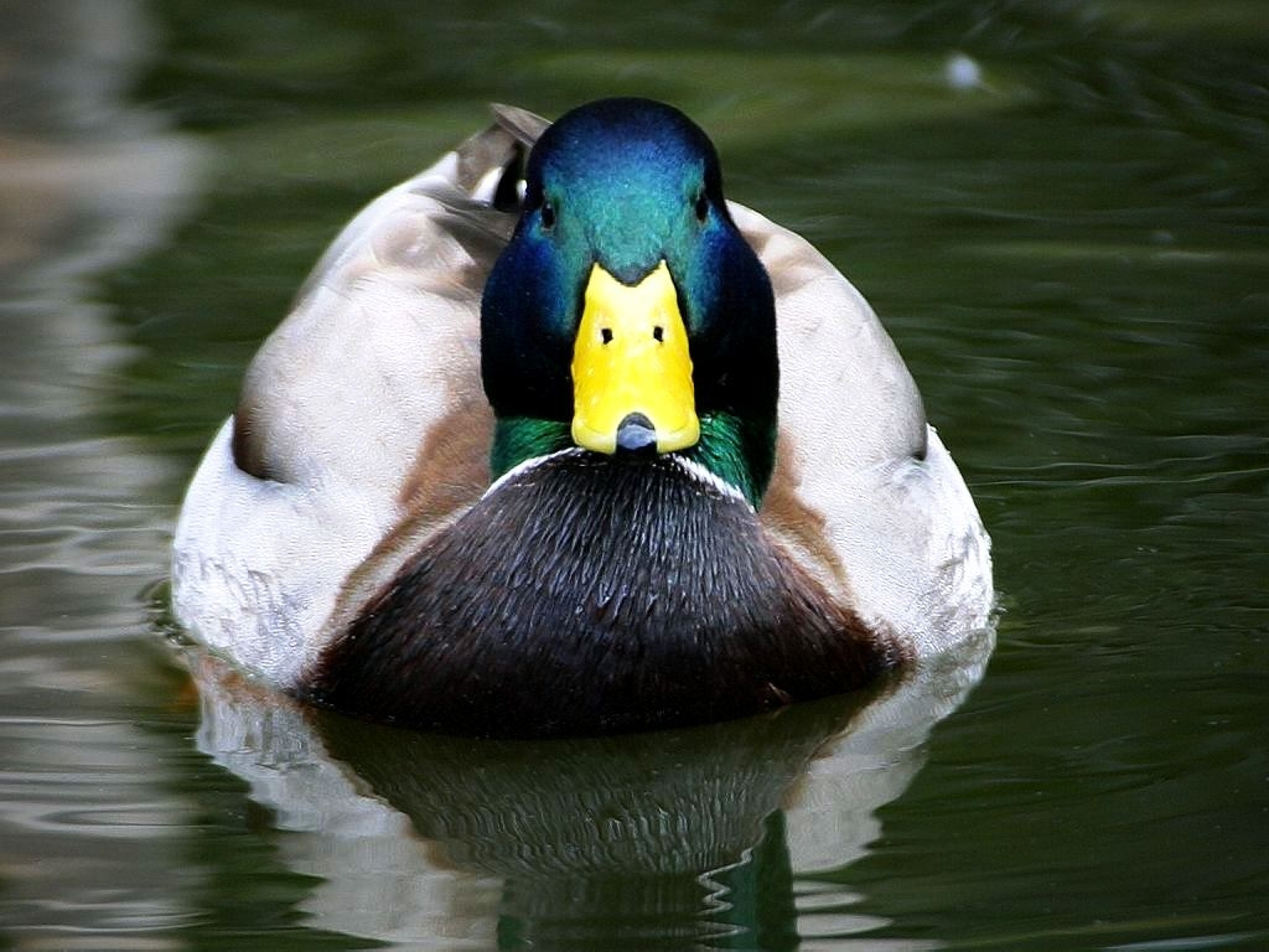
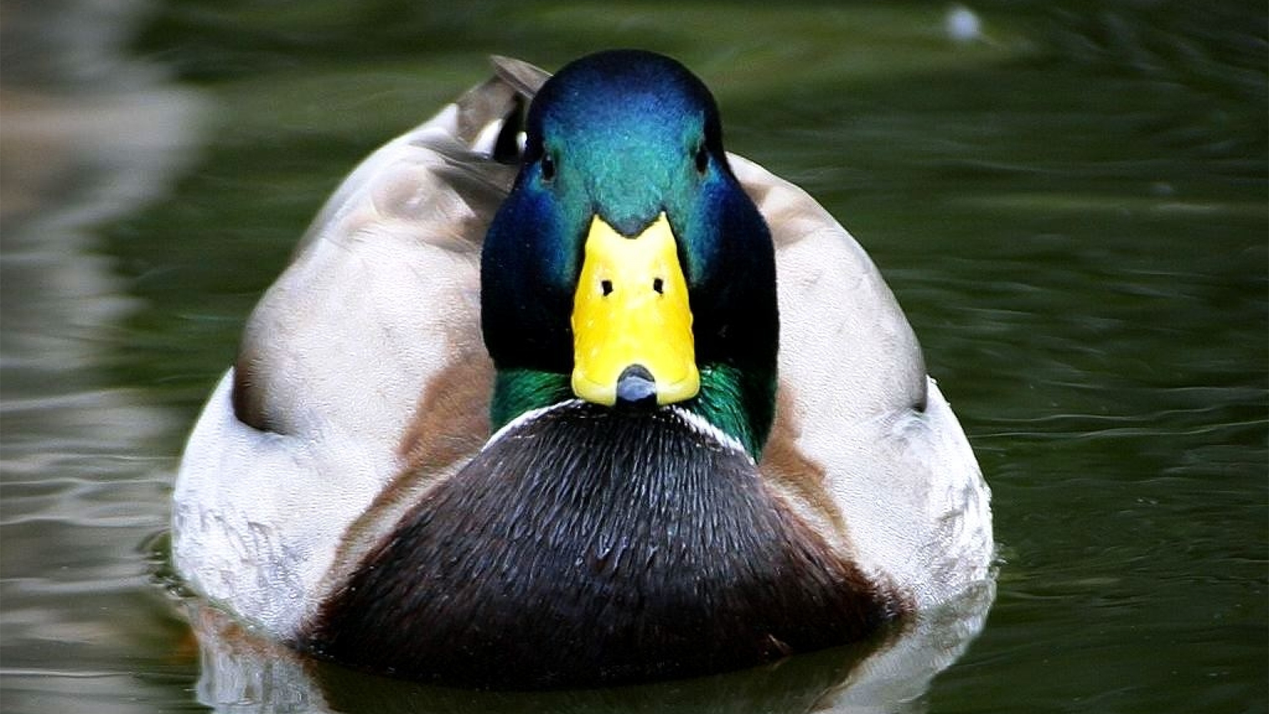
commit to fix the background squeezing issue

diff --git a/style.css b/style.css
@@ -2,7 +2,8 @@
     margin: 0;
 }
 body {
-    background: url('cute-duck-in-the-water-wallpaper.jpg') no-repeat center center fixed;
+    background: url('cute-duck-in-the-water-wallpaper.jpg') no-repeat fixed;
+    background-size: 100% 100%;
     padding-top: 60px;
 }
 #inputSection, #weatherWrap {
